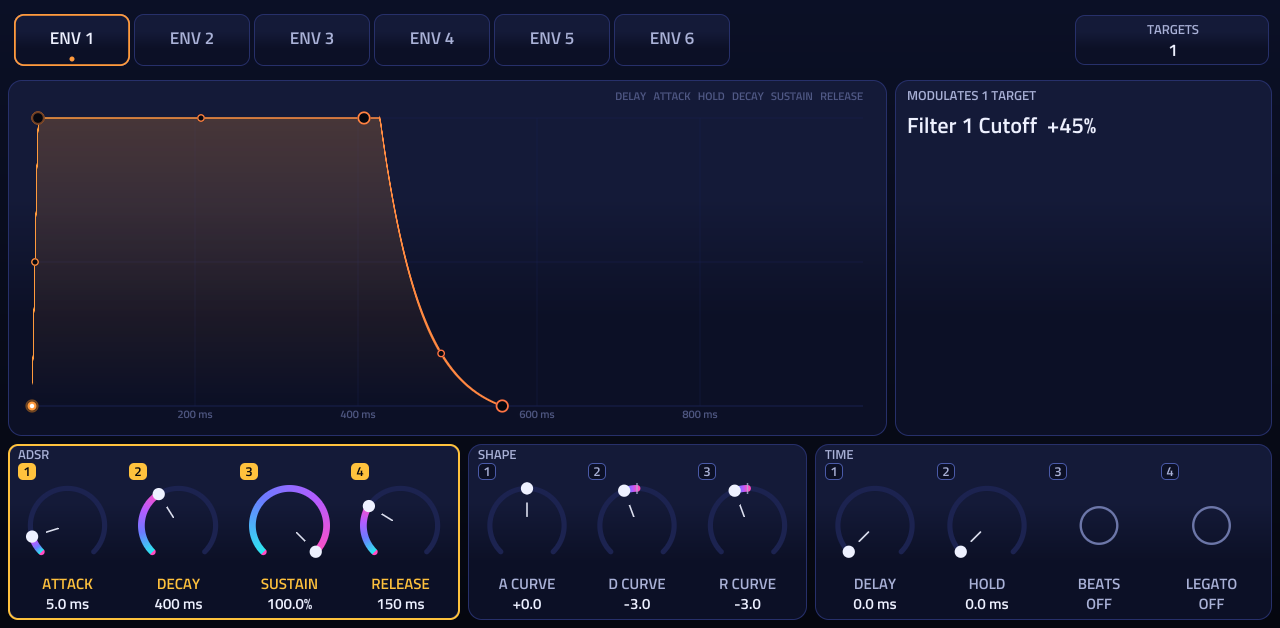
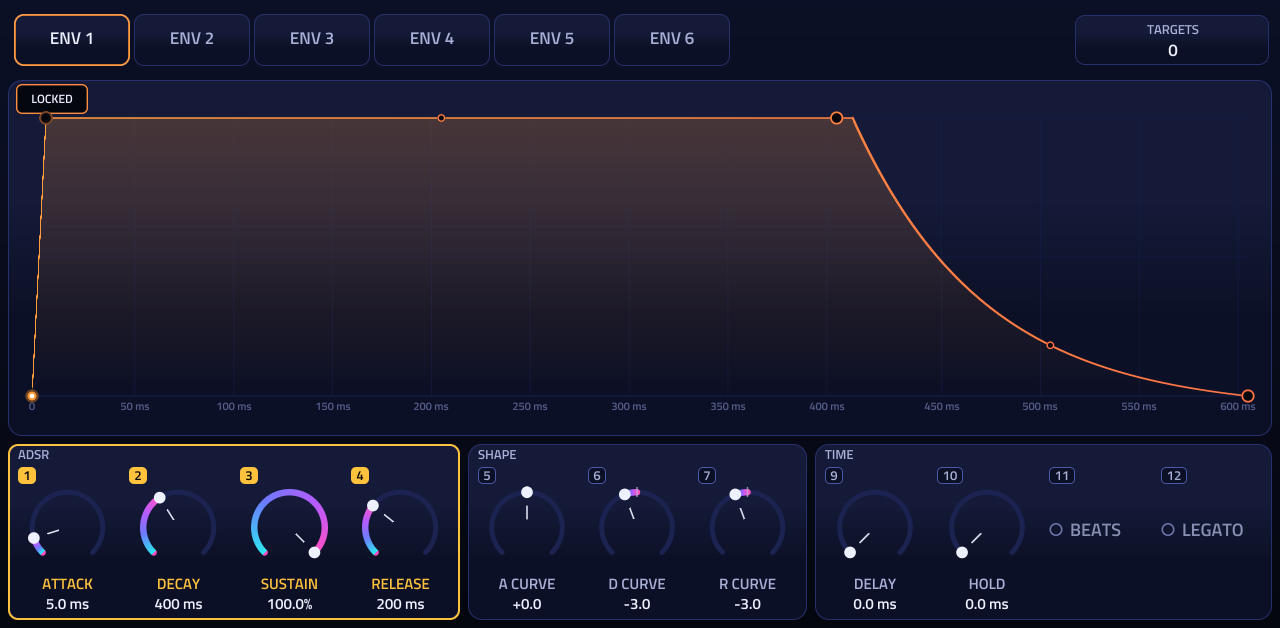
User guide: Envelope chapter (locked fit, time ruler, LOCKED/FREE, targets as tags)

diff --git a/docs/user-guide/SynthyBoy-MPC-User-Guide.md b/docs/user-guide/SynthyBoy-MPC-User-Guide.md
@@ -514,13 +514,21 @@ Controls that do not apply to the current model are dimmed, including their valu
 ![Envelope](img/env.png)
 
 The pages Env 1 - Env 4 each show one envelope full screen; the buttons **ENV 1 .. ENV 6** at the top switch the page to another envelope (a dot under the button marks an envelope that modulates something).
-The tab only decides which envelope is shown first.
+The tab only decides which envelope is shown first. An envelope shapes a value over the time of a note: Env 1 is the amplitude envelope in the Init sound, the others are free for the filter, the pitch or anything else you route them to (chapter 6).
 
-- **Graph.** Time axis (auto-zoom 100 ms .. 50 s), the handles of DELAY, ATTACK, HOLD, DECAY, SUSTAIN, RELEASE (stage names on top). Drag a time handle to change the time; the DECAY handle changes decay time and sustain level at once; the small handle in the middle of attack, decay and release bends the curve; double tap on a handle = its default. A dot and a soft line follow the playing voice(s).
-- **TARGETS** (top right, with the number of targets): opens the list of what the envelope modulates, with depth, UNI/BI, ON/OFF, remove, and ADD TARGET (chapter 6). The panel right of the graph ("MODULATES n TARGET(S)") lists the targets and their depth.
+- **Graph.** The graph has the whole width. The handles of DELAY, ATTACK, HOLD, DECAY, SUSTAIN, RELEASE are on the curve. Drag a time handle to change the time; the DECAY handle changes decay time and sustain level at once; the small handle in the middle of attack, decay and release bends the curve; double tap on a handle = its default. The name and value of the handle in your hand are written over it. A dot and a soft line follow the playing voice(s); Env 1 lies faintly behind the other envelopes on the same time axis.
+- **LOCKED / FREE** (the button at the top left of the graph). **LOCKED** (the default): the envelope always fills the graph, so when you change the times the **time ruler** under the graph changes, not the picture. **FREE**: a horizontal drag along the ruler zooms the time axis (to the right in, to the left out); the envelope may then run past the right edge and the handles beyond it cannot be touched. Switching to FREE keeps the picture as it is; switching back fits again. The compact graph on the Play page is always locked and has no button.
+- **Time ruler.** Round marks in ms or s under the graph (in beats when BEATS is on); the marks are also the vertical grid lines.
+- A stage of 0 ms takes no width in the graph: drag its handle to the right to give it time.
+- **Targets.** What the envelope modulates is written as small tags between the envelope buttons and TARGETS: a dot, the name and the signed depth, for example "Filter 1 Cutoff +45%", as many as fit and then "+n". The tags are text, not buttons. The **TARGETS** button (top right, with the number of targets) opens the list of routes with depth, UNI/BI, ON/OFF, remove and ADD TARGET (chapter 6).
+
+![Envelope with one target](img/env-targets.png)
+
+The three blocks under the graph are one Q group each (in the picture: ADSR yellow, SHAPE 5 - 7, TIME 9 - 12):
+
 - **ADSR** (Q 1 - 4): ATTACK 0 .. 10000 ms (default 5), DECAY 0 .. 10000 ms (400), SUSTAIN 0 .. 100 percent (100), RELEASE 0 .. 10000 ms (200).
-- **SHAPE:** A CURVE, D CURVE, R CURVE: -20 .. +20, defaults 0, -3, -3.
-- **TIME:** DELAY 0 .. 4000 ms, HOLD 0 .. 4000 ms, **BEATS** (switch: times in beats instead of milliseconds: delay 0 .. 8, attack 0 .. 16, hold 0 .. 8, decay 0 .. 16, release 0 .. 16 beats), **LEGATO** (the parameter is "Legato Inverted", Off/On). With the main LEGATO switch on the Master page, a note played while another is held takes over the sounding voice and the envelopes do not start again. Switching LEGATO on for an envelope here makes **that envelope** restart on every note, even in that situation (it restarts from its current level, not from zero). It has no effect while the main LEGATO is off.
+- **SHAPE:** A CURVE, D CURVE, R CURVE: -20 .. +20, defaults 0, -3, -3. Negative values make the stage fast at first and slow at the end.
+- **TIME:** DELAY 0 .. 4000 ms, HOLD 0 .. 4000 ms, **BEATS** (a LED switch: times in beats instead of milliseconds: delay 0 .. 8, attack 0 .. 16, hold 0 .. 8, decay 0 .. 16, release 0 .. 16 beats), **LEGATO** (a LED switch; the parameter is "Legato Inverted"). With the main LEGATO switch on the Master page, a note played while another is held takes over the sounding voice and the envelopes do not start again. Switching LEGATO on for an envelope here makes **that envelope** restart on every note, even in that situation (it restarts from its current level, not from zero). It has no effect while the main LEGATO is off.
 
 ### 5.9 LFOs and the drawn-shape editor
 
